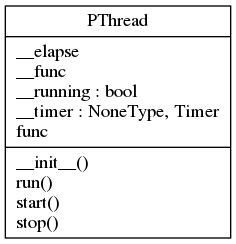
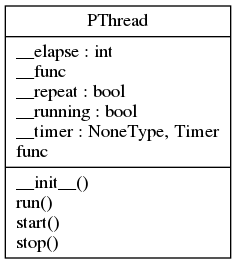
pythread-1.1.0

Changed region(s): [[0.0297, 0.0, 0.9788, 1.0], [0.7415, 0.4303, 0.9195, 0.5451]]

diff --git a/pythread/thread.py b/pythread/thread.py
@@ -23,26 +23,84 @@ class PThread(Thread):
 
     We specify the activity by passing a callable object to the constructor.
 
+    Why:
+        - clean the main code
+        - dedicate import Thread
+        - simplify multithreading use with generic objectives
+
+    Why we will never use it:
+        - all the code use multithreading
+        - we use complex mecanisme between object: sync between object or
+          data issue
+
+        +----------+
+        |          |   define with func & elapse
+      -->   INIT   +-------------------+----------------------+
+        |          |                   |                      |
+        +----------+                   |                      |
+                                       |                      |
+             +----------------------------------------------+ |
+             |                         |                    | |
+             |               +-----------------------------------------+
+             |               | RUN     |                    | |        |
+        +----v-----+         |    +----v-----+          +---+-v---+    |
+        |          |         |    |          |          |         |    |
+      -->  START   +-------------->   TASK   +---------->  TIMER  |    |
+        |          |         |    |          |          |         |    |
+        +----------+         |    +----^-----+          +----^----+    |
+                             |         |                     |         |
+                             +-----------------------------------------+
+                                       |                     |
+        +----------+     disable       |                     |
+        |          +-------------------+         cancel      |
+      -->   STOP   +-----------------------------------------+
+        |          +--------------------+
+        +----------+                    |
+                                  +-----v-----+
+                                  |           |
+                                  |JOIN Thread|
+                                  |           |
+                                  +-----------+
+
     Use:
+        >>> # Import the module :
         >>> from pythread import PThread
         >>> import time
+        >>> # define a task
         >>> def mytask(): print("lorem ipsum dolor sit amet consectetur")
-        >>> mthr = PThread(mytask, 0.1)
-        >>> mthr.start() ; mthr.start()
-        Traceback (most recent call last):
-        ...
-        RuntimeError: threads can only be started once
-        >>> mthr.stop()
+        >>> # We want to run "mytask" in a thread and repeat the task:
         >>> mthr = PThread(mytask, 0.1)
         >>> mthr.start() ; print("other task");time.sleep(0.3) ; mthr.stop()
         lorem ipsum dolor sit amet consectetur
         other task
         lorem ipsum dolor sit amet consectetur
         lorem ipsum dolor sit amet consectetur
+        >>> # We want to run "mytask" in a thread one time:
+        >>> mthr = PThread(mytask).start() ; print("other task")
+        lorem ipsum dolor sit amet consectetur
+        other task
+        >>> # oups - start issue:
+        >>> mthr = PThread(mytask, 0.1)
+        >>> mthr.start() ; mthr.start()
+        Traceback (most recent call last):
+        ...
+        RuntimeError: threads can only be started once
+        >>> # Stop a not repeatable task:
+        >>> mthr = PThread(mytask)
+        >>> mthr.start() ; print("other task")
+        lorem ipsum dolor sit amet consectetur
+        other task
+        >>> mthr.stop()
+        >>> # a test avoid the AttributeError exception
 
     """
-    def __init__(self, func, elapse):
+    def __init__(self, func, elapse=0):
         Thread.__init__(self)
+
+        self.__repeat = True
+        if elapse is 0:
+            self.__repeat = False
+
         self.__running = True
         self.__timer = None
         self.__func = func
@@ -96,7 +154,8 @@ class PThread(Thread):
             raise RuntimeError("thread.__init__() not called")
 
         self.__func()
-        if self.__running:
+
+        if self.__running and self.__repeat:
             self.__timer = Timer(self.__elapse, self.run)
             self.__timer.start()
 
@@ -113,7 +172,8 @@ class PThread(Thread):
             None.
         """
         self.__running = False
-        self.__timer.cancel()
+        if self.__timer is not None:
+            self.__timer.cancel()
         self.join()
 
 

diff --git a/pythread/__about__.py b/pythread/__about__.py
@@ -10,42 +10,32 @@ This script is provided in the hope that it will be useful,
 but WITHOUT ANY WARRANTY; without even the implied warranty of
 MERCHANTABILITY or FITNESS FOR A PARTICULAR PURPOSE.
 """
-import json
+from email import message_from_string
 from pkg_resources import get_distribution
 
 
+if __name__ == "__main__":
+    raise Exception("Do not start this script manually !")
+
+
+META_FILES = ["METADATA", "PKG-INFO"]
+
+
+def get_metafile(dist):
+    for meta_file in META_FILES:
+        if dist.has_metadata(meta_file):
+            return meta_file
+    raise Exception("Install the package...")
+
+
 __pkg_name__ = __name__.split(".")[0]
-
-
-try:
-    ABOUT = json.loads(
-        get_distribution(__pkg_name__).get_metadata("metadata.json")
-    )
-    __version__ = ABOUT["version"]
-    __author__ = ABOUT["extensions"]["python.details"]["contacts"][0]["name"]
-    __email__ = ABOUT["extensions"]["python.details"]["contacts"][0]["email"]
-    __url__ = ABOUT["download_url"]
-    __license__ = ABOUT["license"]
-    __description__ = ABOUT["summary"]
-
-except FileNotFoundError:
-    try:
-        PKGINFO = get_distribution(__pkg_name__).get_metadata('METADATA')
-    except FileNotFoundError:
-        PKGINFO = get_distribution(__pkg_name__).get_metadata('PKG-INFO')
-
-    __version__ = get_distribution(__pkg_name__).version
-
-    from email import message_from_string
-    MSG = message_from_string(PKGINFO)
-    for key, value in MSG.items():
-        if key.startswith("Author-email"):
-            __email__ = value
-        elif key.startswith("Author"):
-            __author__ = value
-        elif key.startswith("Download-URL"):
-            __url__ = value
-        elif key.startswith("License"):
-            __license__ = value
-        elif key.startswith("Summary"):
-            __description__ = value
+META = get_metafile(get_distribution(__pkg_name__))
+META = get_distribution(__pkg_name__).get_metadata(META)
+META = message_from_string(META)
+__version__ = META["Version"]
+__email__ = META["Author-email"]
+__author__ = META["Author"]
+__url__ = META["Download-URL"]
+__license__ = META["License"]
+__description__ = META["Summary"]
+__all__ = ["__version__", "__email__", "__author__", "__url__", "__license__"]

diff --git a/pythread/__init__.py b/pythread/__init__.py
@@ -6,6 +6,15 @@
 
 This package provide a simple way to manage multithreading in python project.
 
+## Why:
+- Clean the main code
+- Simplify multithreading use with general objectives
+
+## Why we will never use it:
+- :x: All the code use multithreading
+- :x: We use complex mecanisme between object: sync between object or data
+  issue
+
 ## Setup:
 ```shell
 git clone https://github.com/francois-le-ko4la/python-multithreading.git
@@ -66,6 +75,10 @@ Take a look in the dev part.
 - [X] validate (un)install process
 - [X] rename module : pthread => pythread
 - [X] Release : 1.0.0
+- [X] fix setup
+- [X] improve docstring
+- [X] update doc
+- [X] Release : 1.1.0
 
 ## License
 
@@ -74,5 +87,11 @@ This package is distributed under the [GPLv3 license](./LICENSE)
 """
 
 
-import pythread.__about__
+from pytconfig.__about__ import (
+    __version__,
+    __email__,
+    __author__,
+    __url__,
+    __license__
+)
 from pythread.thread import PThread

diff --git a/tests/test_doctest.py b/tests/test_doctest.py
@@ -16,7 +16,7 @@ import pathlib
 import doctest
 import unittest
 import subprocess
-from pythread import __about__
+from pythread.__about__ import __pkg_name__
 
 
 blacklist = ["__init__.py", "__about__.py", "__config__.py"]
@@ -39,7 +39,7 @@ class RunDocTest(unittest.TestCase):
             self.assertTrue(False)
 
 
-code_folder = '../' + __about__.__pkg_name__ + '/'
+code_folder = '../' + __pkg_name__ + '/'
 path = pathlib.Path(
     pathlib.PurePath(
         pathlib.Path(__file__).resolve().parent, code_folder)

diff --git a/README.md b/README.md
@@ -3,6 +3,14 @@
 
 This package provide a simple way to manage multithreading in python project.
 
+## Why:
+- Clean the main code
+- Simplify multithreading use with general objectives
+
+## Why we will never use it:
+- :x: All the code use multithreading
+- :x: We use complex mecanisme between object: sync between object or data issue
+
 ## Setup:
 ```shell
 git clone https://github.com/francois-le-ko4la/python-multithreading.git
@@ -63,26 +71,35 @@ Take a look in the dev part.
 - [X] validate (un)install process
 - [X] rename module : pthread => pythread
 - [X] Release : 1.0.0
+- [X] fix setup
+- [X] improve docstring
+- [X] update doc
+- [X] Release : 1.1.0
 
 ## License
 
 This package is distributed under the [GPLv3 license](./LICENSE)
-
 ### Runtime
 
 ```
+
 python-3.6.x
 
+
 ```
+
 ### UML Diagram
 ![alt text](pictures/classes_pythread.png)
 
+
 ### Objects
+
 [PThread()](#pthread)<br />
 [@Property PThread.func](#property-pthreadfunc)<br />
 [PThread.start()](#pthreadstart)<br />
 [PThread.run()](#pthreadrun)<br />
 [PThread.stop()](#pthreadstop)<br />
+
 
 #### PThread()
 ```python
@@ -96,22 +113,75 @@ This class subclassed Thread class :
 
 We specify the activity by passing a callable object to the constructor.
 
+Why:
+    - clean the main code
+    - dedicate import Thread
+    - simplify multithreading use with generic objectives
+
+Why we will neve use it:
+    - all the code use multithreading
+    - we use complex mecanisme between object: sync between object or
+      data issue
+
+    +----------+
+    |          |   define with func & elapse
+  -->   INIT   +-------------------+----------------------+
+    |          |                   |                      |
+    +----------+                   |                      |
+                                   |                      |
+         +----------------------------------------------+ |
+         |                         |                    | |
+         |               +-----------------------------------------+
+         |               | RUN     |                    | |        |
+    +----v-----+         |    +----v-----+          +---+-v---+    |
+    |          |         |    |          |          |         |    |
+  -->  START   +-------------->   TASK   +---------->  TIMER  |    |
+    |          |         |    |          |          |         |    |
+    +----------+         |    +----^-----+          +----^----+    |
+                         |         |                     |         |
+                         +-----------------------------------------+
+                                   |                     |
+    +----------+     disable       |                     |
+    |          +-------------------+         cancel      |
+  -->   STOP   +-----------------------------------------+
+    |          +--------------------+
+    +----------+                    |
+                              +-----v-----+
+                              |           |
+                              |JOIN Thread|
+                              |           |
+                              +-----------+
+
 Use:
+    >>> # Import the module :
     >>> from pythread import PThread
     >>> import time
+    >>> # define a task
     >>> def mytask(): print("lorem ipsum dolor sit amet consectetur")
-    >>> mthr = PThread(mytask, 0.1)
-    >>> mthr.start() ; mthr.start()
-    Traceback (most recent call last):
-    ...
-    RuntimeError: threads can only be started once
-    >>> mthr.stop()
+    >>> # We want to run "mytask" in a thread and repeat the task:
     >>> mthr = PThread(mytask, 0.1)
     >>> mthr.start() ; print("other task");time.sleep(0.3) ; mthr.stop()
     lorem ipsum dolor sit amet consectetur
     other task
     lorem ipsum dolor sit amet consectetur
     lorem ipsum dolor sit amet consectetur
+    >>> # We want to run "mytask" in a thread one time:
+    >>> mthr = PThread(mytask).start() ; print("other task")
+    lorem ipsum dolor sit amet consectetur
+    other task
+    >>> # oups - start issue:
+    >>> mthr = PThread(mytask, 0.1)
+    >>> mthr.start() ; mthr.start()
+    Traceback (most recent call last):
+    ...
+    RuntimeError: threads can only be started once
+    >>> # Stop a not repeatable task:
+    >>> mthr = PThread(mytask)
+    >>> mthr.start() ; print("other task")
+    lorem ipsum dolor sit amet consectetur
+    other task
+    >>> mthr.stop()
+    >>> # a test avoid the AttributeError exception
 ```
 
 ##### @Property PThread.func
@@ -180,4 +250,3 @@ def PThread.stop(self):
 > <b>Returns:</b><br />
 > &nbsp;&nbsp;&nbsp;&nbsp;&nbsp;&nbsp;&nbsp;&nbsp;&nbsp;&nbsp;&nbsp;&nbsp;&nbsp;&nbsp;&nbsp;  None.<br />
 > <br />
-
